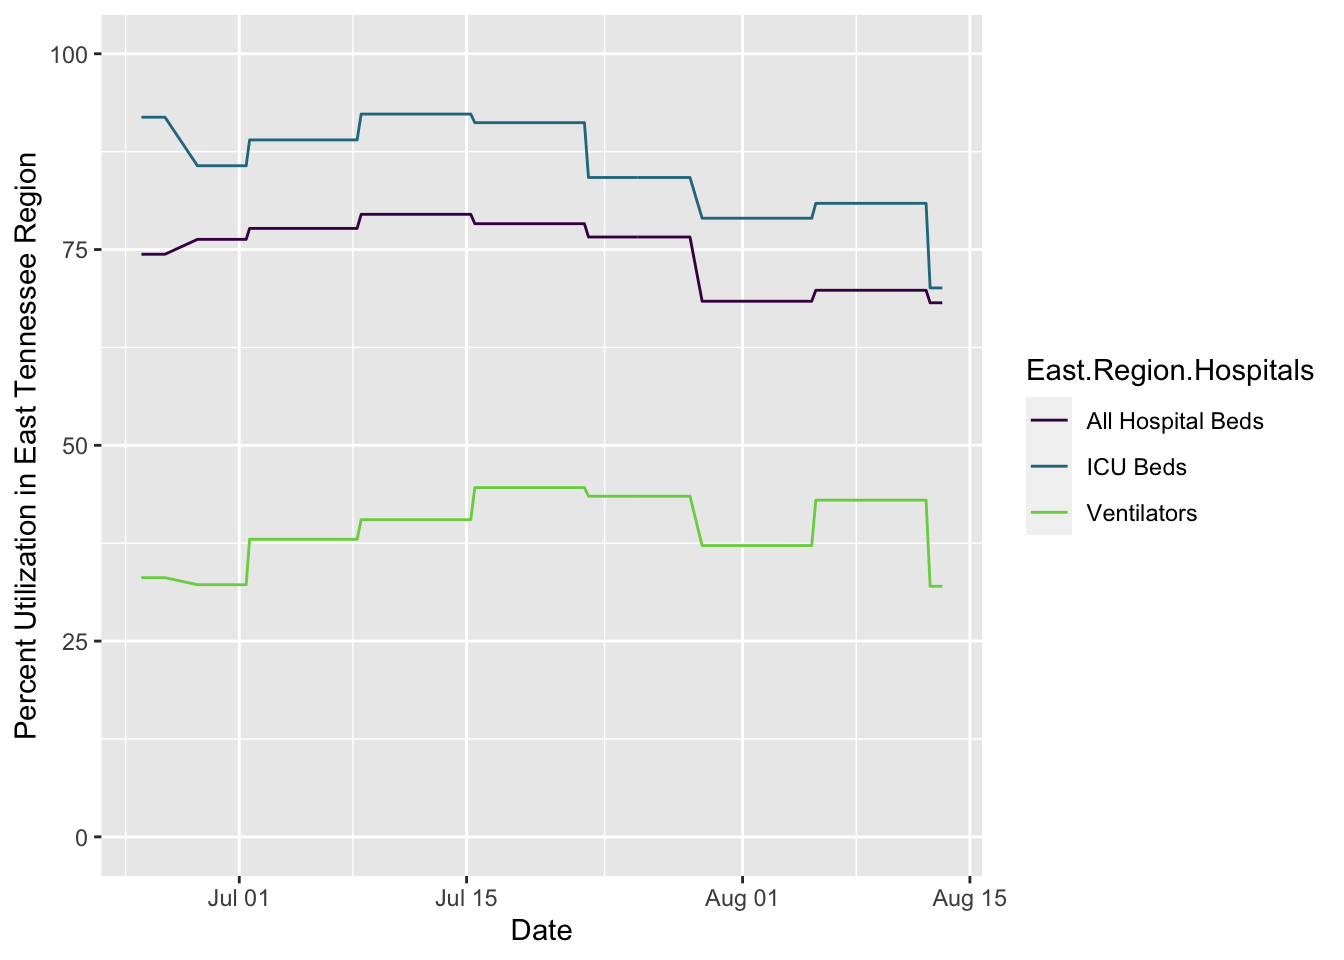
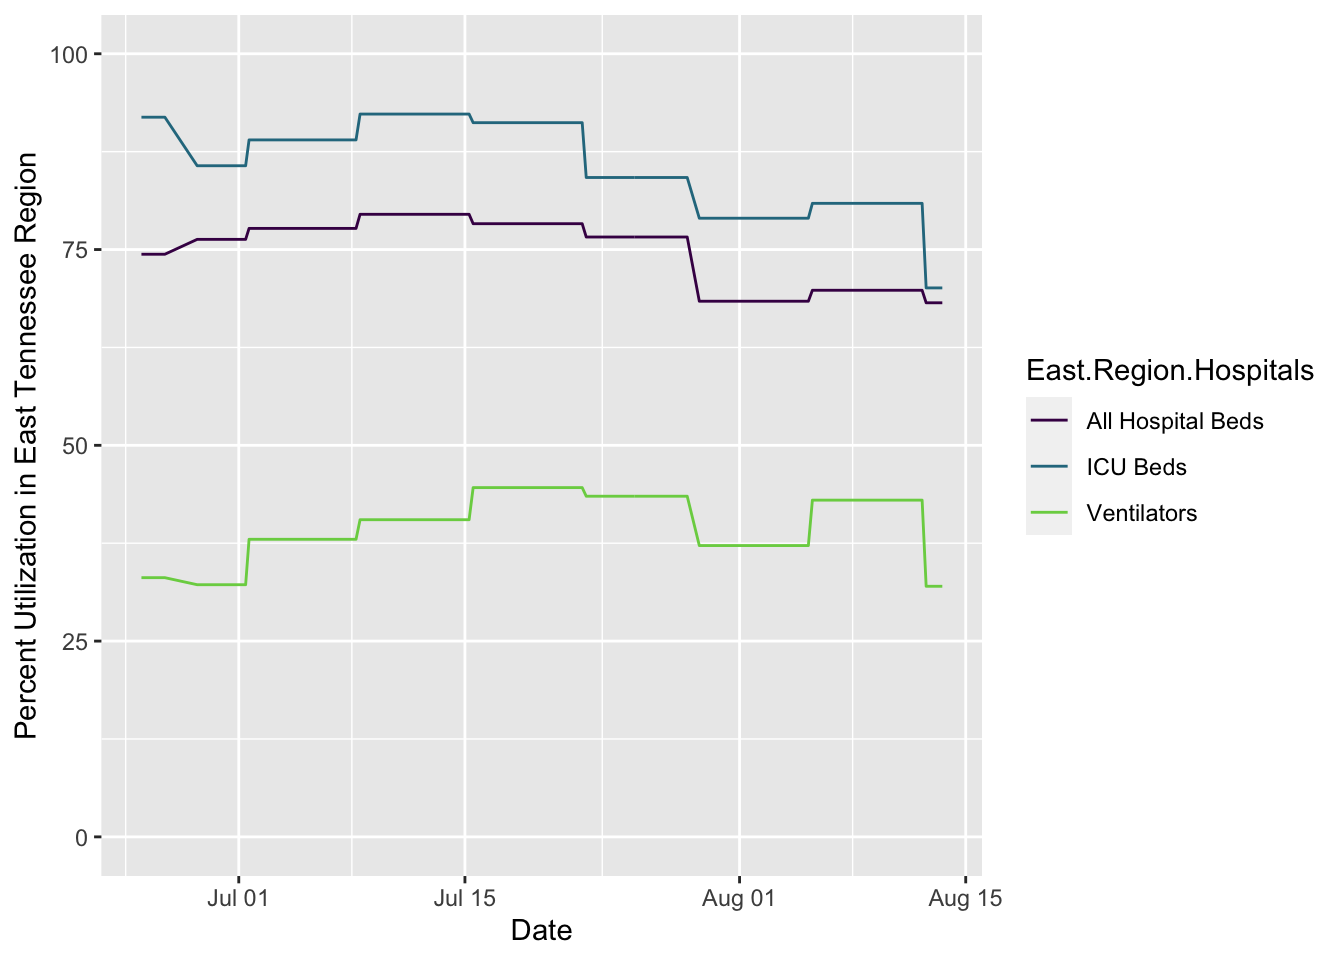
updating site

diff --git a/docs/covid.html b/docs/covid.html
@@ -423,7 +423,7 @@ $(document).ready(function () {
 <li>Info about cases at <a href="#ut">U. of Tennessee, Knoxville</a> (using public information only)</li>
 <li><a href="#webcams">Webcams</a> showing activity at local sites, though not quite at the resolution to point to mask usage or not</li>
 </ul>
-<p>The following plots are created in R using data from <a href="https://covid19datahub.io" class="uri">https://covid19datahub.io</a> (Guidotti, E., Ardia, D., (2020), “COVID-19 Data Hub”, Working paper, doi: 10.13140/RG.2.2.11649.81763), as well as information from Google and the <a href="https://www.tn.gov/health/cedep/ncov/data/downloadable-datasets.html">state of Tennessee dataset page</a> and plotting and analysis using the <code>forecast</code>, <code>ggplot2</code>, <code>reshape2</code>, and <code>dplyr</code> packages. Plots created on 2020-08-13 10:27:44. I use <code>ggplot2</code>’s <code>geom_smooth()</code> function for the smoothed regression plots with its default formula, which uses loess smoothing for this many points. This is not based on a model of disease spread or anything similarly sophisticated, just drawing a smooth curve to summarize noisy points (see <a href="https://www.itl.nist.gov/div898/handbook/pmd/section1/pmd144.htm">here</a> for more details).</p>
+<p>The following plots are created in R using data from <a href="https://covid19datahub.io" class="uri">https://covid19datahub.io</a> (Guidotti, E., Ardia, D., (2020), “COVID-19 Data Hub”, Working paper, doi: 10.13140/RG.2.2.11649.81763), as well as information from Google and the <a href="https://www.tn.gov/health/cedep/ncov/data/downloadable-datasets.html">state of Tennessee dataset page</a> and plotting and analysis using the <code>forecast</code>, <code>ggplot2</code>, <code>reshape2</code>, and <code>dplyr</code> packages. Plots created on 2020-08-13 13:42:02. I use <code>ggplot2</code>’s <code>geom_smooth()</code> function for the smoothed regression plots with its default formula, which uses loess smoothing for this many points. This is not based on a model of disease spread or anything similarly sophisticated, just drawing a smooth curve to summarize noisy points (see <a href="https://www.itl.nist.gov/div898/handbook/pmd/section1/pmd144.htm">here</a> for more details).</p>
 <h2 id="cases">
 Cases
 </h2>
